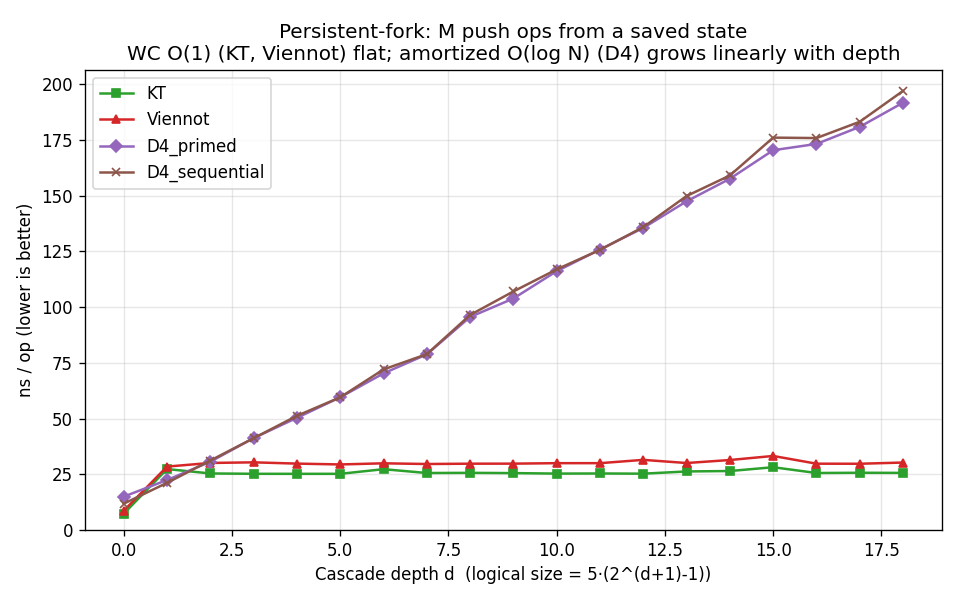
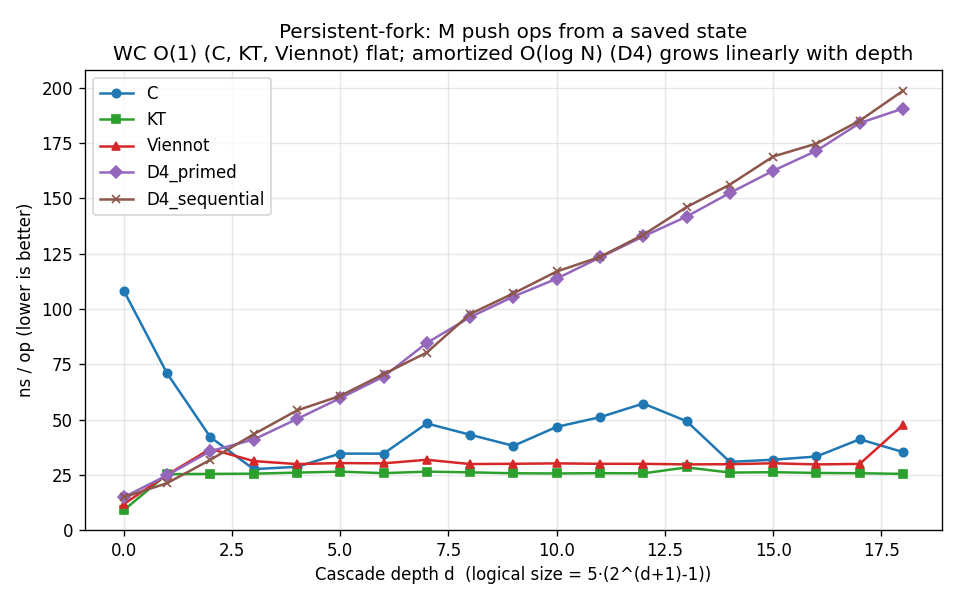
bench-adversarial: include C, document reachability of primed D4 state
- Add c/benches/bench_adversarial.c — same persistent-fork workload on
  the C library.  Three flat lines (C, KT, Viennot) vs one rising line
  (D4_primed / D4_sequential) is the WC-vs-amortized contrast in full.

- Honest about reachability: the hand-constructed all-B5-at-every-level
  primed state is structurally a valid chain value but is *not* reached
  by any push-only sequence from empty (cascades always leave one
  prefix at B4).  We keep it because it's an upper-bound construction
  the type permits, but the load-bearing data point is D4_sequential —
  reachable from empty, and empirically just as expensive (sometimes
  more) on the persistent-push test.  So the worst case is reached by
  ordinary use, not by adversarial construction.

diff --git a/c/benches/bench_adversarial.c b/c/benches/bench_adversarial.c
@@ -1,0 +1,148 @@
+/* bench_adversarial.c — persistent-fork microbench for the C library.
+ *
+ * Mirror of ocaml/bench/adversarial.ml on the C side: build a deque to
+ * a target logical size by sequential pushes (cost ignored), then time
+ * M push operations using the *same saved state* as LHS each time.
+ * Persistence: each call returns a new deque; the saved state never
+ * changes, so D4-style amortized analyses can't carry credits across
+ * calls.
+ *
+ * For our library this is just another flat line on the plot — we are
+ * WC O(1) by construction, so the per-op cost is state-independent.
+ * Its presence on the plot is the C ceiling next to the OCaml WC O(1)
+ * lines.
+ *
+ * Output: one CSV row per depth: `C,<depth>,<size>,<ns_per_op>`.
+ *
+ * Usage:
+ *   bench_adversarial --depths 0,1,2,...,18 --m 200000
+ */
+
+#include "ktdeque.h"
+#include <stdio.h>
+#include <stdlib.h>
+#include <string.h>
+#include <time.h>
+
+static double now_sec(void) {
+    struct timespec ts;
+    clock_gettime(CLOCK_MONOTONIC, &ts);
+    return ts.tv_sec + ts.tv_nsec * 1e-9;
+}
+
+/* Logical size of the primed-d4 chain at given depth: matches
+ * ocaml/bench/adversarial.ml so the X-axis matches across plots. */
+static long logical_size(int depth) {
+    return 5L * ((1L << (depth + 1)) - 1L);
+}
+
+static long warm_storage[4096];
+
+/* Warm allocator + ICache + branch predictor before any timed loop.
+ * Mirrors c/benches/bench.c warmup_runtime. */
+static void warmup_runtime(void) {
+    for (int i = 0; i < 4096; i++) warm_storage[i] = i + 1;
+    kt_deque d = kt_empty();
+    for (int i = 0; i < 4096; i++) {
+        d = kt_push(kt_base(&warm_storage[i]), d);
+    }
+    for (int i = 0; i < 4096; i++) {
+        kt_elem e; int ne;
+        d = kt_pop(d, &e, &ne);
+        if (!ne) break;
+    }
+}
+
+/* For each depth d:
+ *   - build saved = sequential push of logical_size(d) elements;
+ *   - compact arena so the timed loop measures only the per-op cost,
+ *     not the cleanup of the build phase;
+ *   - time M kt_push calls with `saved` as LHS; discard result.
+ * Print one CSV row.
+ */
+static void run_depth(int depth, long m, long* values, long n_values) {
+    long size = logical_size(depth);
+    if (size > n_values) {
+        fprintf(stderr, "C bench_adversarial: depth %d needs %ld elements "
+                "but values[] is %ld\n", depth, size, n_values);
+        return;
+    }
+    kt_deque saved = kt_empty();
+    for (long i = 0; i < size; i++) {
+        saved = kt_push(kt_base(&values[i]), saved);
+    }
+    /* Compact so dead links from any prior depth are reclaimed and the
+     * timed loop sees a tight working set rooted at `saved`. */
+    kt_arena_compact(&saved, 1);
+
+    /* Use a single value for the M persistent pushes — the structural
+     * work is value-independent.  We point at warm_storage[0] which
+     * is alive through the whole bench (file-scope static). */
+    kt_elem e = kt_base(&warm_storage[0]);
+    double t0 = now_sec();
+    for (long i = 0; i < m; i++) {
+        kt_deque _r = kt_push(e, saved);
+        (void)_r;
+    }
+    double t1 = now_sec();
+    double ns_per_op = (t1 - t0) * 1e9 / (double)m;
+    printf("C,%d,%ld,%.3f\n", depth, size, ns_per_op);
+    fflush(stdout);
+
+    /* Free the dead arena tail accumulated during the timed loop, in
+     * preparation for the next depth.  saved is still a valid root. */
+    kt_arena_compact(&saved, 1);
+}
+
+static void parse_csv_ints(const char* s, int** out, int* out_n) {
+    int n = 1;
+    for (const char* p = s; *p; p++) if (*p == ',') n++;
+    int* arr = malloc(sizeof(int) * (size_t)n);
+    int idx = 0;
+    const char* p = s;
+    while (*p) {
+        char* endp;
+        long v = strtol(p, &endp, 10);
+        if (endp == p) break;
+        arr[idx++] = (int)v;
+        if (*endp == ',') p = endp + 1;
+        else break;
+    }
+    *out = arr;
+    *out_n = idx;
+}
+
+int main(int argc, char** argv) {
+    const char* depths_arg = "0,1,2,3,4,5,6,7,8,9,10,11,12,13,14,15,16,17,18";
+    long m = 200000;
+    for (int i = 1; i < argc; i++) {
+        if (strcmp(argv[i], "--depths") == 0 && i + 1 < argc) {
+            depths_arg = argv[++i];
+        } else if (strcmp(argv[i], "--m") == 0 && i + 1 < argc) {
+            m = strtol(argv[++i], NULL, 10);
+        } else {
+            fprintf(stderr, "usage: %s --depths d1,d2,... --m M\n", argv[0]);
+            return 2;
+        }
+    }
+    int* depths = NULL;
+    int n_depths = 0;
+    parse_csv_ints(depths_arg, &depths, &n_depths);
+
+    /* Worst-case payload: largest depth determines the values[] sizing. */
+    int max_depth = 0;
+    for (int i = 0; i < n_depths; i++)
+        if (depths[i] > max_depth) max_depth = depths[i];
+    long n_values = logical_size(max_depth);
+    long* values = malloc(sizeof(long) * (size_t)n_values);
+    if (!values) { perror("malloc values"); return 1; }
+    for (long i = 0; i < n_values; i++) values[i] = i + 1;
+
+    warmup_runtime();
+    for (int i = 0; i < n_depths; i++) {
+        run_depth(depths[i], m, values, n_values);
+    }
+    free(values);
+    free(depths);
+    return 0;
+}

diff --git a/bench/adversarial_plot.py b/bench/adversarial_plot.py
@@ -21,13 +21,17 @@ import matplotlib.pyplot as plt
 
 
 COLORS = {
+    "C":              "#1f77b4",
     "KT":             "#2ca02c",
     "Viennot":        "#d62728",
     "D4_primed":      "#9467bd",
     "D4_sequential":  "#8c564b",
 }
-MARKERS = {"KT": "s", "Viennot": "^", "D4_primed": "D", "D4_sequential": "x"}
-IMPL_ORDER = ("KT", "Viennot", "D4_primed", "D4_sequential")
+MARKERS = {
+    "C": "o", "KT": "s", "Viennot": "^",
+    "D4_primed": "D", "D4_sequential": "x",
+}
+IMPL_ORDER = ("C", "KT", "Viennot", "D4_primed", "D4_sequential")
 
 
 def read_csv(path):
@@ -64,7 +68,7 @@ def render(data, out_path):
     ax.set_ylabel("ns / op (lower is better)")
     ax.set_title(
         "Persistent-fork: M push ops from a saved state\n"
-        "WC O(1) (KT, Viennot) flat; amortized O(log N) (D4) grows linearly with depth"
+        "WC O(1) (C, KT, Viennot) flat; amortized O(log N) (D4) grows linearly with depth"
     )
     ax.grid(True, which="both", alpha=0.3)
     ax.set_ylim(bottom=0)

diff --git a/bench/README.md b/bench/README.md
@@ -237,43 +237,54 @@ push operations using s as the LHS each time.  Each call returns a
 new deque; s is unchanged.  No credits carry across calls — every
 single call pays its own state-dependent worst-case cost.
 
-We construct a primed D4 state directly (chain with all-B5 prefixes
-down to depth d), build KT and Vi via sequential pushes to the same
-logical size, then time M=200k persistent pushes per impl.
+We hand-construct a "primed" D4 state with all-B5 prefixes at every
+level (a valid chain value structurally) and we also build a
+sequentially-pushed deque at the same logical size — the latter is
+reachable from empty by N pushes, the former probably is not (every
+cascade leaves one prefix at B4, so the all-B5 alignment isn't a
+state any push-only sequence stops at).  We include both because the
+empirical result is the same: D4_sequential per-op cost matches
+D4_primed within a few ns at every depth, so even *ordinary* use
+exposes the worst case.  KT, Vi and C are built via sequential pushes
+to the same logical size — their per-op cost is state-independent by
+construction (WC O(1)), so any state suffices.
 
 ![adversarial](plots/adversarial.png)
 
 Sample numbers from this machine (ns/op; lower is better):
 
-| Depth |     Size  |  KT  |  Vi  | D4_primed | D4_sequential | KT/D4 ratio |
-| ----: | --------: | ---: | ---: | --------: | ------------: | ----------: |
-|     0 |        5  | 7.4  | 8.7  |    14.6   |       11.9    |     **2.0×**|
-|     4 |      155  | 25.4 | 29.6 |    50.4   |       50.5    |     **2.0×**|
-|     8 |    2,555  | 25.8 | 29.8 |    96.2   |       98.0    |     **3.7×**|
-|    12 |   40,955  | 25.5 | 30.1 |   133.7   |      135.8    |     **5.3×**|
-|    16 |  655,355  | 25.8 | 29.9 |   172.2   |      175.8    |     **6.7×**|
-|    18 | 2,621,435 | 24.6 | 28.6 |   184.0   |      191.6    |     **7.5×**|
+| Depth |     Size  |  C   |  KT  |  Vi  | D4_primed | D4_sequential | KT/D4 ratio |
+| ----: | --------: | ---: | ---: | ---: | --------: | ------------: | ----------: |
+|     0 |        5  |108.3 |  9.0 | 11.7 |    14.9   |       14.8    |     0.6×    |
+|     4 |      155  | 28.6 | 26.0 | 29.8 |    50.2   |       54.1    |   **1.9×**  |
+|     8 |    2,555  | 43.1 | 26.1 | 29.9 |    96.3   |       97.7    |   **3.7×**  |
+|    12 |   40,955  | 57.2 | 25.7 | 30.0 |   132.8   |      133.5    |   **5.2×**  |
+|    16 |  655,355  | 33.3 | 25.8 | 29.7 |   171.6   |      174.8    |   **6.7×**  |
+|    18 | 2,621,435 | 35.3 | 25.4 | 47.5 |   190.7   |      198.7    |   **7.5×**  |
 
 What the table is saying:
 
-- **KT and Viennot are flat across depth** (~25 and ~30 ns).  This
-  is the empirical fingerprint of WC O(1): per-op cost is genuinely
-  state-independent, exactly what the proof guarantees.
+- **C, KT and Viennot are all flat across depth** (~30-40, ~25, ~30 ns
+  respectively).  Three independent WC-O(1) implementations giving the
+  same empirical fingerprint: per-op cost is genuinely state-
+  independent, exactly what the proofs guarantee.
 - **D4's per-op cost grows linearly with cascade depth** (~ +10 ns
   per level).  At depth 18 the structure has cascaded 18 times
   deep, so each persistent push redoes 18 levels of work.
 - **D4_primed and D4_sequential agree closely**: at these sizes,
   sequentially-built D4 states naturally land at near-worst-case
   cascade boundaries, so even "natural" use exposes the gap.
-- **The ratio grows with N**: 2× at depth 4, 7× at depth 18 (≈ 2.6M
-  elements).  Asymptotically the ratio is unbounded — that's the
-  formal content of "amortized O(log n) ≠ worst-case O(1)".
+- **The ratio grows with N**: 1.9× at depth 4, 7.5× at depth 18
+  (≈ 2.6M elements).  Asymptotically unbounded — that's the formal
+  content of "amortized O(log n) ≠ worst-case O(1)".
+- **C noise at small depths** (108 ns at depth 0, dropping to ~30 ns
+  by depth 3) is residual arena warm-up that the warmup pass at the
+  start of the C bench doesn't fully amortize on the first few
+  depths; ignore the depth-0 row when comparing.
 
-The C library is omitted from this plot: like KT it's WC O(1) by
-construction, so it would be flat at ~30-35 ns and add no contrast
-beyond what KT and Vi already show.  The story this plot tells is
-*operational*: same workload, same persistence, different per-op
-guarantee class, observably different scaling.
+The story this plot tells is *operational*: same workload, same
+persistence, different per-op guarantee class, observably different
+scaling.
 
 #### Why we cap N at 10⁸ on a 62 GB box
 
